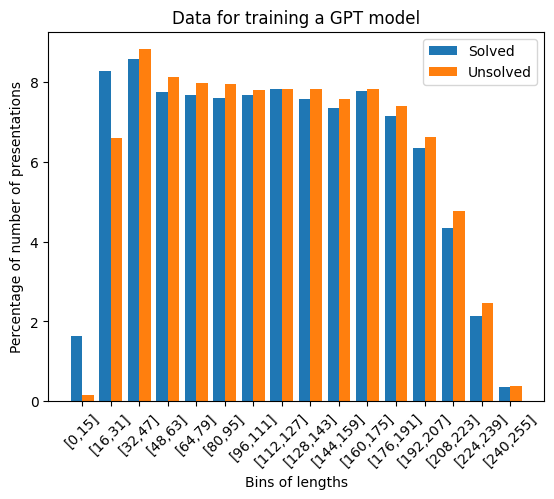
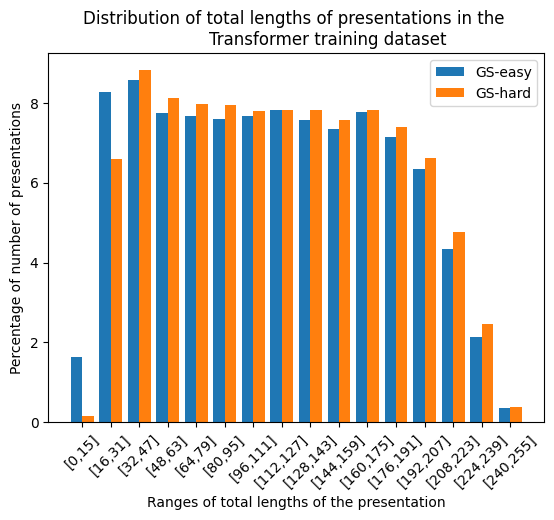
updated the section on transformer and the appendix on transformer hyperparameters

diff --git a/sec/embeddings.tex b/sec/embeddings.tex
@@ -9,9 +9,9 @@ p(t_1 \cdots t_{N}) = \prod\limits_{i=1}^{N} p (t_{i} \mid t_{1} \cdots t_{i-1})
 
 Here $p (t_{N} \mid t_{1} \cdots t_{N-1})$, often called the $N$-gram probability distribution, is the probability of a token $t_N$ following a sequence of tokens $t_{1} \cdots t_{N-1}$. To model the language of balanced presentations, we can alternatively estimate the $N$-gram probability distributions for all $N$. 
 
-Over the last few years, Transformer models have shown great success in modeling human-understandable languages to the extent that these models can write text almost indistinguishable from human-written texts. Specifically, the architecture used for modeling language is the auto-regressive ``decoder-only" Transformer, which we review in detail in section 5.1. In section 5.2, we discuss the method with which we generate the dataset required for training the model. Finally, in section 5.3, we provide details of some insights we learn from this process. 
+Over the last few years, Transformer models have shown great success in modeling human-understandable languages to the extent that these models can write text almost indistinguishable from human-written texts. Specifically, the architecture used for modeling language is the auto-regressive ``decoder-only" Transformer, which we review in detail in \autoref{sec:transformer_review}. In \autoref{sec:transformer_datasets}, we discuss the method with which we generate the dataset required for training the model. Finally, in \autoref{sec:transformer_results}, we provide details of some insights we learn from this process. 
 
-\subsection{Transformers: a review}
+\subsection{Transformers: a review\label{sec:transformer_review}}
 
 Here, we give a short review of the architecture of a decoder-only transformer. For more detailed descriptions, see \cite{vaswani2023attention, elhage2021mathematical, douglas2023large}. 
 
@@ -76,30 +76,28 @@ is a variant of the $\softmax$ function suitable for auto-regressive tasks: it s
 $\softmax$ operation. 
 That is, future tokens --- $t_k$ for $k > i$, play no role in the prediction of $p(t_{i+1} \mid t_1, \cdots, t_i)$.
 
-We train the transformer model by minimizing the cross-entropy loss between the estimated and the true probability distributions of $p(t_{i+1} | t_1, \cdots, t_{i})$ for all $i$. The parallelism offered by the training on all tokens in a sequence at once is extremely useful for efficiently learning the language modeling task.
+We train the transformer model by minimizing the cross-entropy loss between the estimated and the true probability distributions of $p(t_{i+1} | t_1, \cdots, t_{i})$ for all $i$. The parallelism offered by the processing of all tokens in a sequence at once is extremely useful for efficient training of a model for language modeling task.
 
-Before we discuss the dataset we used to train our model, we present an important remark. In practice, the embedding matrix $W_E$ and the unembedding matrix $W_U$ are often ``tied" together, i.e. $W_E = W_U^T$.
-\footnote{Add reference to the weight-tying paper.} 
-The rows of $W_E = W_U^T$ are interpreted as the embeddings of words/sentences, to which one may apply the usual operations of a vector space \cite{Bengio:2003}. 
-For example, the cosine of the angle between two embedding vectors, also known as ``cosine similarity", is often used to measure the similarity between two texts. \fixme{add a citation here.}
-\footnote{\fixme{What is the correct reference for analyzing embeddings through cosine simiarity between vectors?}} 
+Before we discuss the dataset we used to train our model, we present an important remark. In practice, the embedding matrix $W_E$ and the unembedding matrix $W_U$ are often ``tied" together, i.e. $W_E = W_U^T$ \cite{press2017using, inan2017tying}.
+The rows of $W_E = W_U^T$ are interpreted as the embeddings of words/sentences, to which one may apply the usual operations of a vector space \cite{Bengio:2003, mikolov-etal-2013-linguistic}. 
+For example, the cosine of the angle between two embedding vectors, also known as ``cosine similarity", is often used to measure the similarity between two texts. 
 Two semantically similar texts have higher cosine similarity between them, while semantically different texts correspond to (almost) orthogonal vectors in the embedding space.
 
 
-\subsection{Training and Evaluation Datasets}
+\subsection{Training and Evaluation Datasets\label{sec:transformer_datasets}}
 
-We now discuss the training and validation datasets used to train and evaluate our Transformer model. As our main interest in this paper has been in the presentations of the Miller-Schupp series, we generated a dataset of balanced presentations that are AC-equivalent to the Miller-Schupp presentations. Specifically, we apply sequences of AC moves to the 1190 presentations with $n,\ \text{length}(w) \leq 7$ discussed in section 2, creating a dataset of about 1.8 million presentations. Approximately 1 million of these presentations are AC-equivalent to the GS-hard presentations of section 3, while the remaining are related to the GS-easy presentations. 
+We now discuss the training and validation datasets used to train and evaluate our Transformer model. As our main interest in this paper has been in the presentations of the Miller-Schupp series, we generated a dataset of balanced presentations that are AC-equivalent to the Miller-Schupp presentations. Specifically, we apply sequences of AC moves to the 1190 presentations with $n,\ \text{length}(w) \leq 7$ discussed in \autoref{sec:AC}, creating a dataset of about 1.8 million presentations. Approximately 1 million of these presentations are AC-equivalent to the GS-hard presentations of section 3, while the remaining are related to the GS-easy presentations. 
 Only a small amount (roughly 15 percent) of the original Miller-Schupp presentations were part of this dataset.
 
-The dataset is tokenized using six tokens: two stop tokens and one token each for the two generators and their inverses. The tokenized dataset had about $2.17 \times 10^8$ tokens. As our hope was to get some insights into any properties that might distinguish GS-easy and GS-hard presentations, we plot the percentage of appearance of each token separately for subsets of the dataset that are AC-equivalent to GS-easy and GS-hard presentations (see \autoref{fig:tokens_hist}). 
-Note that the ratio of frequency of $y^{\pm 1}$ to the frequency of $x^{\pm 1}$ is higher in the GS-hard dataset. This is likely because the GS-hard presentations have larger $n$, and larger $n$ corresponds to a higher number of occurence of $y^{\pm 1}$. Interestingly, this effect remains in the dataset even when after applying thousands of AC moves.
+The dataset is tokenized using six tokens: two stop tokens and one token each for the two generators and their inverses. The tokenized dataset had about $2.17 \times 10^8$ tokens. As our hope is to get insights into properties that distinguish GS-easy and GS-hard presentations, we perform an exploratory data analysis of the two subsets of data associated to these presentations. We plot the percentage of appearance of each token for these subsets in \autoref{fig:tokens_hist}. 
+Note that the ratio of frequency of $y^{\pm 1}$ to the frequency of $x^{\pm 1}$ is higher in the GS-hard dataset. This is likely because the GS-hard presentations have larger $n$, and larger $n$ corresponds to a higher number of occurence of $y^{\pm 1}$ in the Miller-Schupp presentation. Interestingly, this effect remains in the dataset even when after applying thousands of AC moves to the original presentations.
 
-We paid special attention to generating presentations over a wide range of total lengths so as not to bias our model towards learning trends specific to a fixed length. To this end, we devised an algorithm (\autoref{alg:apply_ac_moves} in Appendix A) that creates an almost uniform distribution over the total lengths of the presentations. (See \autoref{fig:gpt_data}.) We set aside $10\%$ of the data as a validation dataset.
+We paid special attention to ensure that our dataset contains presentations of a wide range of total lengths so as not to bias our model towards learning trends specific to any fixed length. To this end, we devised an algorithm (\autoref{alg:apply_ac_moves} in \autoref{app:algorithm}) that creates an almost uniform distribution over the total lengths of the presentations. (See \autoref{fig:gpt_data}.) We also remark that we set aside $10\%$ of our entire data as a validation dataset.
 
 \begin{figure}
 	\centering
 	\includegraphics[scale=0.6]{fig/tokens_hist.png}
-	\caption{Percentage of appearance of each token in the solved/unsolved datasets.}
+	\caption{Percentage of appearance of each token in the two subsets of the training dataset that are equivalent to GS-easy and GS-hard presentations. To be clear, we computed the percentages separately for each subset of the training data, i.e. the heights of all blue (and orange) bars adds separately to 100.}
 	\label{fig:tokens_hist}
 \end{figure}
 
@@ -107,51 +105,32 @@ We paid special attention to generating presentations over a wide range of total
 \begin{figure}
 	\centering
 	\includegraphics[scale=0.6]{fig/gpt_data_length_distribution.png}
-	\caption{Percentage of presentations in various ranges of total lengths.
-	\fixme{As it is, I computed separate percentages for each solved/unsolved case.
-                    I should clarify that if I leave the figure as it is.
-                    It is also good to change the total length.
-                    Also change the label of x-axis to something better.}}
+	\caption{Percentage of presentations in various ranges of total lengths. Percentages were computed independently for the two subsets of the dataset, corresponding to presentations that are AC-equivalent to GS-easy and GS-hard presentations. We used \autoref{alg:apply_ac_moves} from \autoref{app:algorithm} to ensure the almost-uniform distribution depicted here.}
 	\label{fig:gpt_data}
 \end{figure}
 
 
 
 
+\subsection{Results\label{sec:transformer_results}}
+Finally, we discuss the results of our experiments. We trained a Transformer model with hyperparameters given in  \autoref{app:hyperparameters}. A randomly initialized model with initialization scheme given in \cite{Radford2019LanguageMA} has a validation loss of $~1.8$, while the trained model could achieve a validation loss of $0.7337$.
+\footnote{We tuned the hyperparameters a little but it is quite likely that one can achieve a better performing model with more hyperparameter tuning. Similarly, more training data will necessarily help with the performance}
+We used the untrained (randomly initialized) and the trained model to get embeddings of all presentations of the Miller-Schupp series discussed in \autoref{sec:AC}. We used t-SNE to project these embedding vectors to a plane \cite{JMLR:v9:vandermaaten08a}. These plots are shown in a $7 \times 2$ grid in \autoref{fig:tsne_embeddings}.
+
+Each row of \autoref{fig/newplot.png} corresponds to a fixed value of $n$. The left column depicts t-SNE projections of embeddings obtained by an untrained model, while the right column shows the embeddings of a trained Transformer model. We note that the GS-easy and GS-hard presentations seem to cluster much more in the plots in the right column. This indicates that a trained Transformer model is able to distinguish between GS-easy and GS-hard presentations to a good extent, albeit not perfectly. 
+
+Note that the training dataset of Transformer contained no information about the easy of solvability of a presentation. It also did not contain many presentations of the Miller-Schupp series itself. Instead, it was made of presentations of varying lengths that are AC-equivalent to the Miller-Schupp series presentations. This indicates that a). there could likely be an invariant at the level of the ``language`` of the balanced presentations that distinguishes easy vs hard presentations, and b). this invariant survives application of thousands of AC moves which we used to generate the 
+training examples in our dataset. 
+
+ Note that t-SNE dependence on a distance measure: it learns to map the vectors that are closer together in the higher-dimensional space with respect to this distance measure, close together in the plane. We used cosine simiarity between embedding vectors as the distance measure for our plots. Note also that t-SNE admits a hyperparameter known as ``perplexity``, and the projections learned by t-SNE depend on the hyperparameter \cite{wattenberg2016how}. Thus, in general, t-SNE plots must be interpreted with care. The plots shown in \autoref{fig:tsne_embeddings} were all made with the perplexity value of $30$, though, we have checked that the clustering of GS-easy and GS-hard presentations seems to exist at a broad range of perplexity values.
 
 
 
-\subsection{Results}
-Finally, we discuss the results of training our transformer model. The hyperparameters of our model are given in Appendix C. The model is initialized with random weights that assigns an equal probability to each token, thus the initial value of the cross-entropy loss is $-\ln(1/6) \sim 1.7917$. We initialized our weights following the technique as per GPT-2 paper.
-
-We used our train model to find embeddings of the 1190 presentations of the Miller-Schupp series, i.e. the column of $W_E$
-
-We use the trained model to obtain embeddings of the 1190 Miller Schupp presentations studied above.
-To visualize these embeddings, we use t-SNE with distance measured by the cosine of the angle between two embedding vectors and project the embedding space down to two dimensions. \fixme{Try to understand how cosine similarity changes formulas for t-SNE.}  Value of perplexity? Were the results robust under the change of perplexity?
-\fixme{Should we also plot UMAPs?}
-The final result is shown in \autoref{fig:embeddings_tsne}.
-We see that the model has clustered together examples with the same $n$.
-
-\footnote{Maybe I should replace 'Solved' and 'Unsolved' with 'BFS-easy' and 'BFS-hard' in all the images.}
 
 \begin{figure}
-	\centering
-	\begin{subfigure}[b]{\textwidth}
-		\includegraphics[width=\linewidth]{fig/embeddings_n.png}
-		\caption{Scatter plot of embeddings as a function of $n$ using t-SNE}
-		\label{fig:hist_vs_n}
-	\end{subfigure}%
-	%add desired spacing between images, e. g. ~, \quad, \qquad etc.
-	%(or a blank line to force the subfigure onto a new line)
-
-	\begin{subfigure}[b]{\textwidth}
-		\centering
-		\includegraphics[width=\linewidth]{fig/embeddings_easy_vs_hard.png}
-		\caption{Scatter plot of BFS-easy and BFS-hard examples using t-SNE}
-		\label{fig:hist_vs_length}
-	\end{subfigure}
-	\caption{Projection of embeddings to a plane using t-SNE with cosine similarities}\label{fig:embeddings_tsne}
+    \centering
+    \includegraphics[scale=0.23]{fig/embeddings.png}
+    \captionsetup{width=1.1\textwidth}
+    \caption{t-SNE plots depicting embeddings of the Miller-Schupp presentations $MS(n, w)$. The left (right) column shows embeddings learned by an untrained (trained) transformer model. Each row corresponds to a value of $n$. Trained models cluster together GS-easy and GS-hard presentations indicating the possibility of a difference in the linguistic structure of the two sets of presentations.}
+    \label{fig:tsne_embeddings}
 \end{figure}
-
-
-\fixme{Is one way to interpret this result that the application of  BFS moves takes us far away from the initial presentation, but it still remembers which presentations should be hard vs easy?}

diff --git a/app/hyperparameters.tex b/app/hyperparameters.tex
@@ -1,5 +1,9 @@
 % !TEX root = ../ac_paper.tex
 
-\section{Hyperparameters}
+\section{Hyperparameters\label{app:hyperparameters}}
 
-In this appendix, we provide hyperparameters for the Transformer and the Proximal Policy Optimization algorithm we trained for this work. 
+Here we discuss the hyperparameters we used to train our Proximal Policy Optimization and Transformer models discussed in the main text. 
+
+\fixme{Insert details of PPO hyperparameters here.}
+
+We used an 8-layer transformer model with the embedding space dimension of $512$ and 4 attention heads. The context window of the Transformer had length 1024. We used a batch size of $12$ and constant learning rate of $6 \times 10^{-5}$. We trained for a total of 25000 iterations. We used Adam hyperparameters $\beta_1 = 0.9$, $\beta_2 = 0.99$ and a dropout value of $0$.

diff --git a/app/algorithm.tex b/app/algorithm.tex
@@ -1,6 +1,8 @@
 % !TEX root = ../ac_paper.tex
 
-\section{Algorithm for Generation Language Modeling Dataset}
+\section{Algorithm for Generation Language Modeling Dataset\label{app:algorithm}}
+
+In this appendix we discuss the algorithm, \autoref{alg:apply_ac_moves}, used to generate the training dataset for our Transformer model.
 
 Algorithm  generates presentations of increasing lengths in $n$ phases.
 In the $i$-th phase, presentations with maximum relator length $l_i$ are generated, where $l_i$ is sampled from a discrete uniform distribution with bounds $l + i l_{\text{inc}} $ and $l + (i+1) l_{\text{inc}}$.
